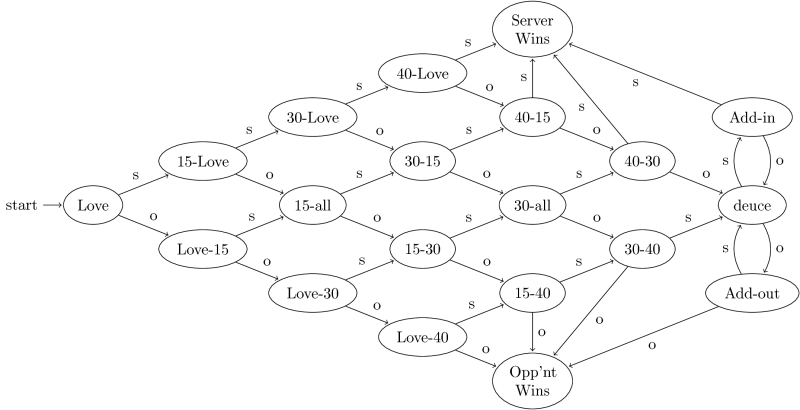
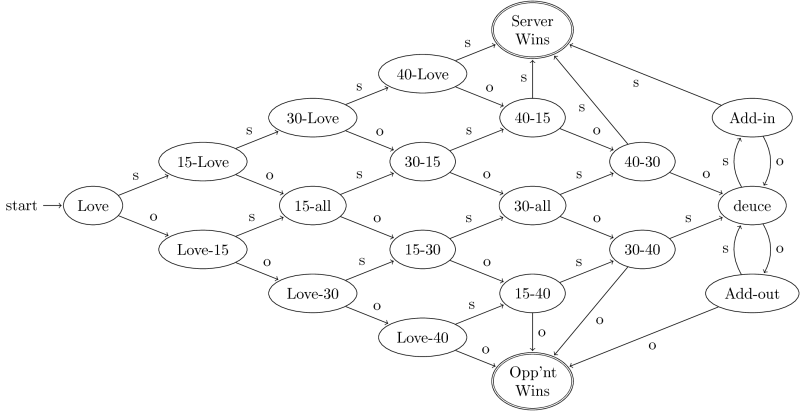
in the progress of DFA

diff --git a/notes/automata.html b/notes/automata.html
@@ -3,7 +3,7 @@
 "http://www.w3.org/TR/xhtml1/DTD/xhtml1-strict.dtd">
 <html xmlns="http://www.w3.org/1999/xhtml" lang="en" xml:lang="en">
 <head>
-<!-- 2017-09-04 Mon 13:43 -->
+<!-- 2017-09-05 Tue 23:50 -->
 <meta http-equiv="Content-Type" content="text/html;charset=utf-8" />
 <meta name="viewport" content="width=device-width, initial-scale=1" />
 <title>Automata Theory</title>
@@ -235,10 +235,11 @@ for the JavaScript code in this tag.
 <h2>Table of Contents</h2>
 <div id="text-table-of-contents">
 <ul>
-<li><a href="#org03db2c8">1. <span class="todo IN_PROGRESS">IN-PROGRESS</span> Week 1: Finite Automata</a>
+<li><a href="#orgdfb634f">1. <span class="todo IN_PROGRESS">IN-PROGRESS</span> Week 1: Finite Automata</a>
 <ul>
-<li><a href="#orga4b2617">1.1. <span class="done DONE">DONE</span> Course outline and motivation</a></li>
-<li><a href="#org038da28">1.2. <span class="todo IN_PROGRESS">IN-PROGRESS</span> Informal introduction to finite automata</a></li>
+<li><a href="#org1c6fe80">1.1. <span class="done DONE">DONE</span> Course outline and motivation</a></li>
+<li><a href="#org554bd15">1.2. <span class="done DONE">DONE</span> Informal introduction to finite automata</a></li>
+<li><a href="#org446991b">1.3. <span class="todo IN_PROGRESS">IN-PROGRESS</span> Deterministic Finite Automata</a></li>
 </ul>
 </li>
 </ul>
@@ -248,11 +249,11 @@ for the JavaScript code in this tag.
 <a href="https://lagunita.stanford.edu/courses/course-v1:ComputerScience+Automata+SelfPaced/courseware/751b6dfa045849d8bec2fdd55c89a3b9/">Automata Theory</a> on Lagunita<br />
 </p>
 
-<div id="outline-container-org03db2c8" class="outline-2">
-<h2 id="org03db2c8"><span class="section-number-2">1</span> <span class="todo IN_PROGRESS">IN-PROGRESS</span> Week 1: <a href="https://lagunita.stanford.edu/courses/course-v1:ComputerScience+Automata+SelfPaced/courseware/544b7a8df3844f428bc1a5125c594702/ec6439250bb4426ab93c543e140dacb4/">Finite Automata</a></h2>
+<div id="outline-container-orgdfb634f" class="outline-2">
+<h2 id="orgdfb634f"><span class="section-number-2">1</span> <span class="todo IN_PROGRESS">IN-PROGRESS</span> Week 1: <a href="https://lagunita.stanford.edu/courses/course-v1:ComputerScience+Automata+SelfPaced/courseware/544b7a8df3844f428bc1a5125c594702/ec6439250bb4426ab93c543e140dacb4/">Finite Automata</a></h2>
 <div class="outline-text-2" id="text-1">
-</div><div id="outline-container-orga4b2617" class="outline-3">
-<h3 id="orga4b2617"><span class="section-number-3">1.1</span> <span class="done DONE">DONE</span> Course outline and motivation</h3>
+</div><div id="outline-container-org1c6fe80" class="outline-3">
+<h3 id="org1c6fe80"><span class="section-number-3">1.1</span> <span class="done DONE">DONE</span> Course outline and motivation</h3>
 <div class="outline-text-3" id="text-1-1">
 <p>
 Automata is ranked second after database for optional courses in a<br />
@@ -331,8 +332,8 @@ it empty?<br /></li>
 </div>
 </div>
 
-<div id="outline-container-org038da28" class="outline-3">
-<h3 id="org038da28"><span class="section-number-3">1.2</span> <span class="todo IN_PROGRESS">IN-PROGRESS</span> Informal introduction to finite automata</h3>
+<div id="outline-container-org554bd15" class="outline-3">
+<h3 id="org554bd15"><span class="section-number-3">1.2</span> <span class="done DONE">DONE</span> Informal introduction to finite automata</h3>
 <div class="outline-text-3" id="text-1-2">
 <p>
 What is a Finite Automaton?<br />
@@ -374,13 +375,142 @@ Scoring a Game<br />
 <p><img src="tennis.png" alt="tennis.png" /><br />
 </p>
 </div>
+
+<p>
+Acceptance of Inputs<br />
+</p>
+
+<ul class="org-ul">
+<li>Given a sequence of inputs (<i>input string</i>), start in the start<br />
+state and follow the transition from each symbol in turn.<br /></li>
+<li>Input is <i>accepted</i> if you wind up in a final (accepting) state<br />
+after all inputs have been read.<br /></li>
+</ul>
+
+<p>
+Language of an Automaton<br />
+</p>
+
+<ul class="org-ul">
+<li>The set of strings accepted by an automaton A is the <i>language</i> of A.<br /></li>
+<li>Denoted L(A).<br /></li>
+<li>Different sets of final states -&gt; different languages.<br /></li>
+<li>Example: As designed, L(Tennis) = strings that determins the winner.<br /></li>
+</ul>
+</div>
+</div>
+
+<div id="outline-container-org446991b" class="outline-3">
+<h3 id="org446991b"><span class="section-number-3">1.3</span> <span class="todo IN_PROGRESS">IN-PROGRESS</span> Deterministic Finite Automata</h3>
+<div class="outline-text-3" id="text-1-3">
+<p>
+Alphabets<br />
+</p>
+
+<ul class="org-ul">
+<li>An <i>alphabet</i> is any finite set of symbols.<br /></li>
+<li>Examples:<br />
+ASCII, Unicode,<br />
+{0, 1} (<i>binary alphabet</i>),<br />
+{a, b, c}, {s, o},<br />
+set of signals used by a protocol.<br /></li>
+</ul>
+
+
+<p>
+Strings<br />
+</p>
+
+<ul class="org-ul">
+<li>A <i>string</i> over an alphabet &Sigma; is a list, each element of<br />
+which is a member of &Sigma;.<br />
+<ul class="org-ul">
+<li>Strings shown with no commas or quotes, e.g., abc or 01101.<br /></li>
+</ul></li>
+<li>&Sigma;<sup>*</sup> = set of all strings over alphabet &Sigma;.<br /></li>
+<li>The <i>length</i> of a string is its number of positions.<br /></li>
+<li>&epsilon; stands for the <i>empty string</i> (string of length 0).<br /></li>
+</ul>
+
+<p>
+Example: Strings<br />
+</p>
+
+<ul class="org-ul">
+<li>{0, 1}<sup>*</sup> = {&epsilon;, 0, 1, 00, 01, 10, 11, 000, 001, &#x2026;}<br /></li>
+<li>Subtlety: 0 as a string, 0 as a symbol look the same.<br />
+<ul class="org-ul">
+<li>Context determines the type.<br /></li>
+</ul></li>
+</ul>
+
+
+<p>
+Languages<br />
+</p>
+
+<ul class="org-ul">
+<li>A <i>language</i> is a subset of &Sigma;<sup>*</sup> for some alphabet &Sigma;.<br /></li>
+<li>Example: The set of string of 0s and 1s with no two consecutive 1s.<br /></li>
+<li>L = {&epsilon;, 0, 1, 00, 01, 10, 000, 001, 010, 100, 101, 0000,<br />
+0001, 0010, 0100, 0101, 1000, 1001, 1010, &#x2026;}<br />
+Fibonacci sequence hides here.<br /></li>
+</ul>
+
+
+<p>
+Deterministic Finite Automata<br />
+</p>
+
+<ul class="org-ul">
+<li>A formalism for defining languages,<br />
+consisting of:<br />
+<ol class="org-ol">
+<li>A finite set of <i>states</i> (Q, typically).<br /></li>
+<li>An <i>input alphabet</i> (&Sigma;, typically).<br /></li>
+<li>A <i>transition function</i> (&delta;, typically).<br /></li>
+<li>A <i>start state</i> (q<sub>0</sub>, in Q, typically).<br /></li>
+<li>A set of <i>final states</i> (F &sub; Q, typically).<br />
+<ul class="org-ul">
+<li>"Final" and "accepting" are synonyms.<br /></li>
+</ul></li>
+</ol></li>
+</ul>
+
+
+<p>
+The Transition Function<br />
+</p>
+
+<ul class="org-ul">
+<li>Takes two arguments: a state and an input symbol.<br /></li>
+<li>&delta;(q, a) = the state that the DFA goes to when it is in state<br />
+q and input a is received.<br /></li>
+<li>Note: always a next state - add a <i>dead state</i> if no transition<br /></li>
+</ul>
+
+
+<p>
+Graph Representation of DFAs<br />
+</p>
+
+<ul class="org-ul">
+<li>Nodes = states.<br /></li>
+<li>Arcs represent transition function.<br />
+<ul class="org-ul">
+<li>Arc from state p to state q labeled by all those input symbols<br />
+that have transitions from p to q.<br /></li>
+</ul></li>
+<li>Arrow labeled "Start" to the start state.<br /></li>
+<li>Final states indicated by double circles.<br /></li>
+</ul>
 </div>
 </div>
 </div>
 </div>
 <div id="postamble" class="status">
 <p class="author">Author: Lei Zhao</p>
-<p class="date">Created: 2017-09-04 Mon 13:43</p>
+<p class="date">Created: 2017-09-05 Tue 23:50</p>
 <p class="validation"><a href="http://validator.w3.org/check?uri=referer">Validate</a></p>
 </div>
 </body>

diff --git a/index.html b/index.html
@@ -3,7 +3,8 @@
     <head>
         <!-- <title>Abeunt studia in mores</title> -->
         <title>Redirecting</title>
-        <meta http-equiv="refresh" content="0; URL='/notes/intro_db.html'" />
+        <meta http-equiv="refresh" content="0; URL='/notes/automata.html'" />
+        <!-- <meta http-equiv="refresh" content="0; URL='/notes/intro_db.html'" /> -->
         <!-- <meta http-equiv="refresh" content="0; URL='/articles/for-in_vs_for-of.html'" /> -->
     </head>
     <body>

diff --git a/404.html b/404.html
@@ -14,6 +14,7 @@
                  break;
              case "notes":
                  res = "intro_db.html";
+                 res = "automata.html";
                  break;
              default:
                  break;
